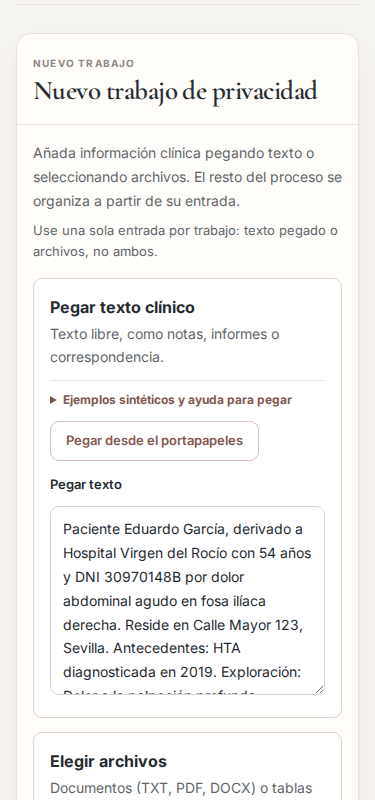
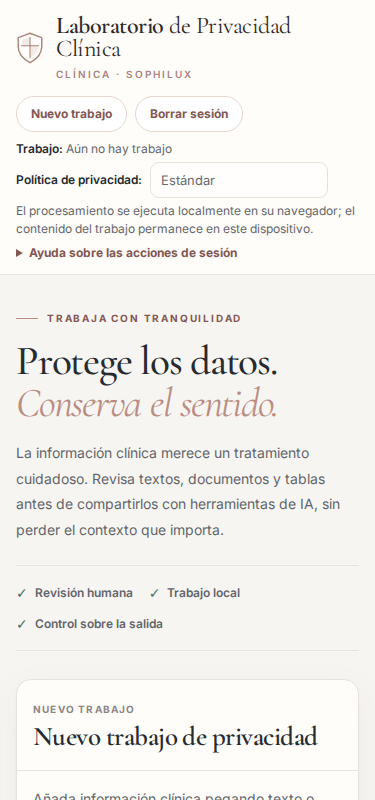
test(issue91): restore primary-task ordering assertion and recapture populated 375px first viewport (CORA-91-U1-V02)

diff --git a/e2e/input-start.spec.ts b/e2e/input-start.spec.ts
@@ -348,6 +348,7 @@ for (const width of [375, 1280]) {
     expect(intendedUseBox).not.toBeNull();
     expect(privacyPolicyBox).not.toBeNull();
     expect(textareaBox!.y).toBeLessThan(intendedUseBox!.y);
+    expect(createBox!.y).toBeLessThan(intendedUseBox!.y);
     expect(createBox!.y).toBeLessThan(privacyPolicyBox!.y);
   });
 }

diff --git a/docs/evidence/issue91-u1/README.md b/docs/evidence/issue91-u1/README.md
@@ -26,7 +26,7 @@ shot.
 | `entrada-poblada-1440-completa.png` | **Página completa** | **Entrada poblada** | 1440×900 | Ídem a página completa |
 | `entrada-vacia-375-viewport.png` | **Primer viewport** | **Entrada vacía** | 375×800 | Identidad, controles y ayuda secundaria refluidos en columna |
 | `entrada-vacia-375-completa.png` | **Página completa** | **Entrada vacía** | 375×800 | Flujo completo de tarea en columna, sin overflow |
-| `entrada-poblada-375-viewport.png` | **Primer viewport** | **Entrada poblada** (ejemplo sintético elegido, desplegable cerrado) | 375×800 | Sin overflow, todos los controles visibles |
+| `entrada-poblada-375-viewport.png` | **Primer viewport** | **Entrada poblada** (ejemplo sintético elegido, desplegable cerrado) | 375×800 | Sin overflow, todos los controles visibles. Captura con window.scrollY = 0 después de cerrar el desplegable; muestra la cabecera y el comienzo de Entrada. El borrador poblado se acredita en la captura completa correspondiente. |
 | `entrada-poblada-375-completa.png` | **Página completa** | **Entrada poblada** | 375×800 | Ídem a página completa |
 
 ## CORA-91-U1-V01 visual verdict (measured on the real app, this exact build)
